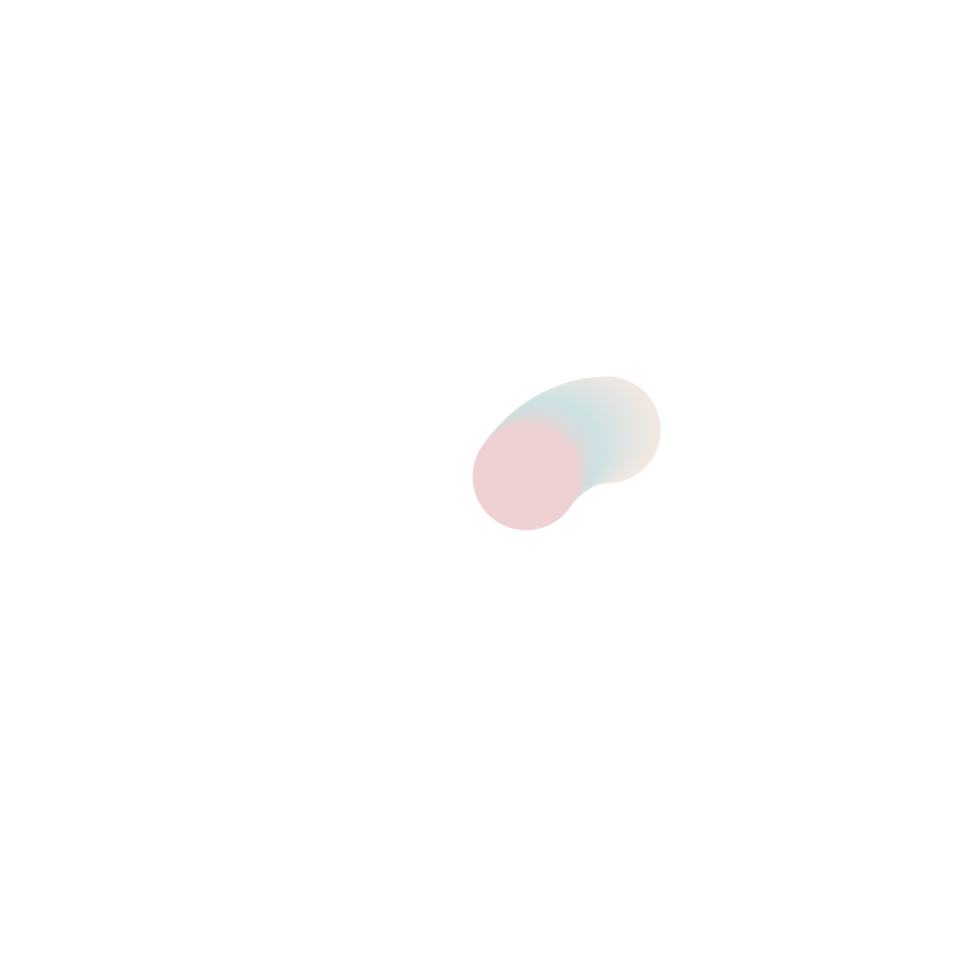
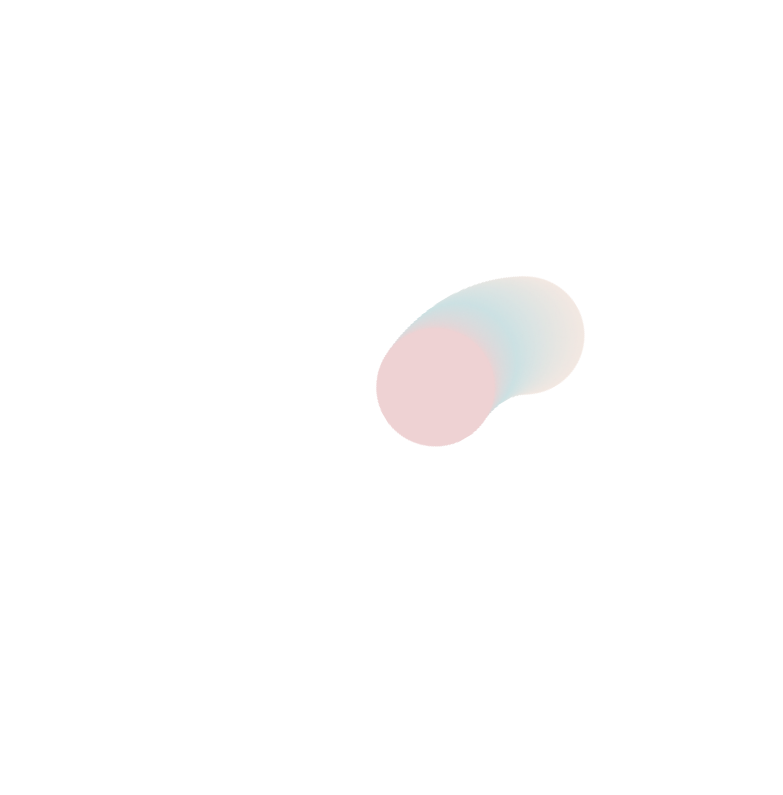
sign in really done

diff --git a/sign_in.css b/sign_in.css
@@ -1,5 +1,7 @@
 @import url('https://fonts.googleapis.com/css2?family=Lexend:wght@200&family=Poppins:wght@500;600&display=swap');
-        
+  html{
+    overflow: hidden
+  }      
 #sign_in_form {
   align-items: center;
   color:#638184;
@@ -55,18 +57,19 @@ body {
   align-items: center;
   text-align: center;
   width: 284px;
-  height: 450px;
+  height: 600px;
   margin: auto;
   background: url('images/Rectangle.png'), url('images/Ellipse2.png'),url("images/RectangleTop.png");
   background-repeat:no-repeat , no-repeat ,no-repeat;
   background-position: right bottom, center center , 122% -179% ;
-  background-size: 202px 200px, 100%, 499px 500px ;
+  background-size: 202px 200px, 100%, 499px 515px ;
   box-sizing: border-box;
- 
+  overflow: hidden
 }
 #main {
   margin-top: 50%;
   margin-bottom: 55%;
+  overflow: hidden
 }
 #Ellipse7{
 position: absolute;
